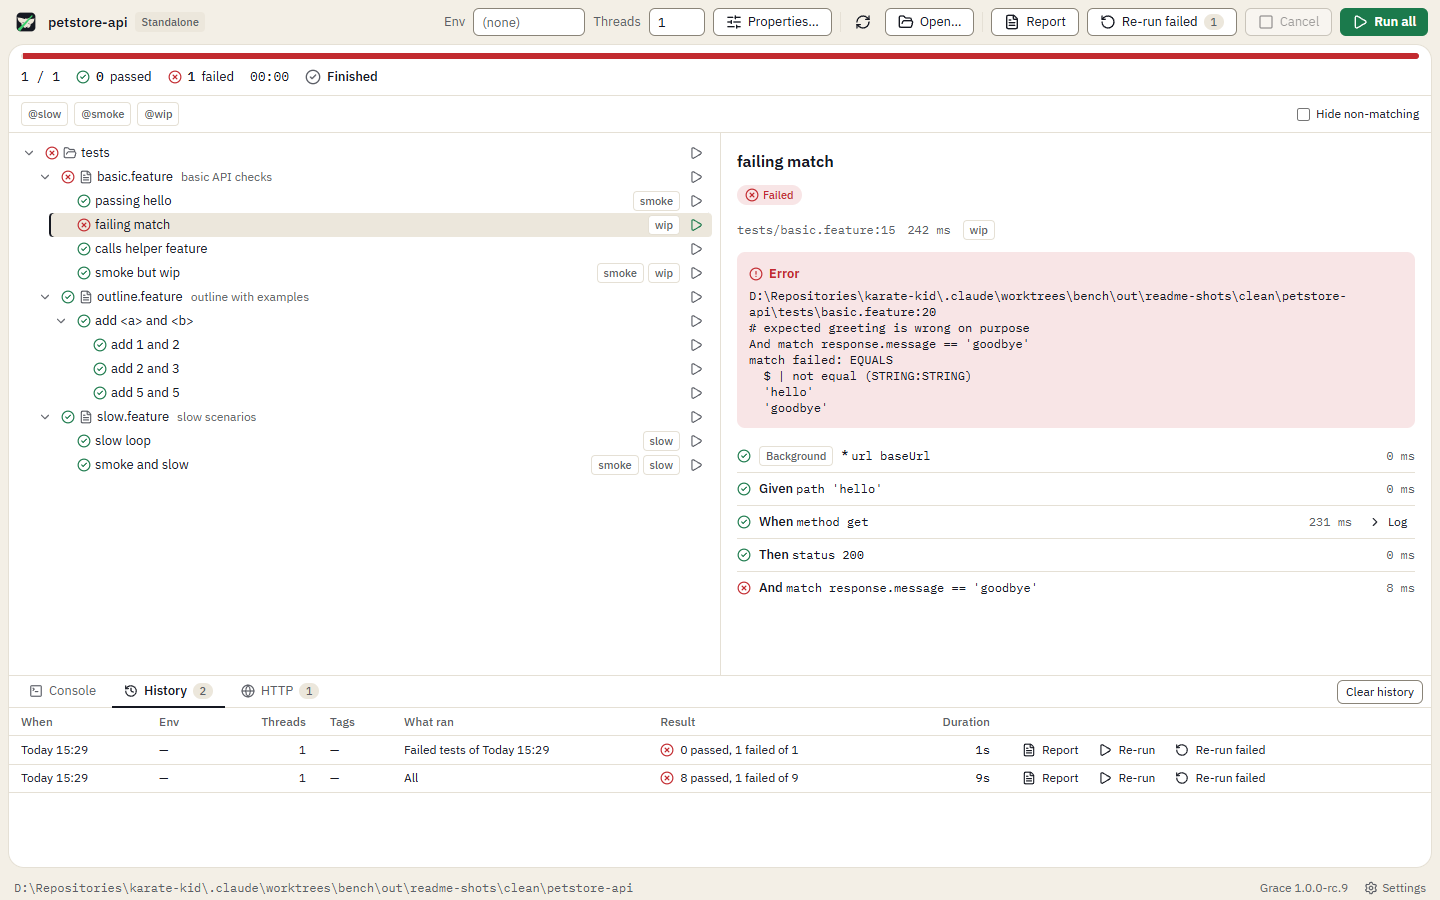
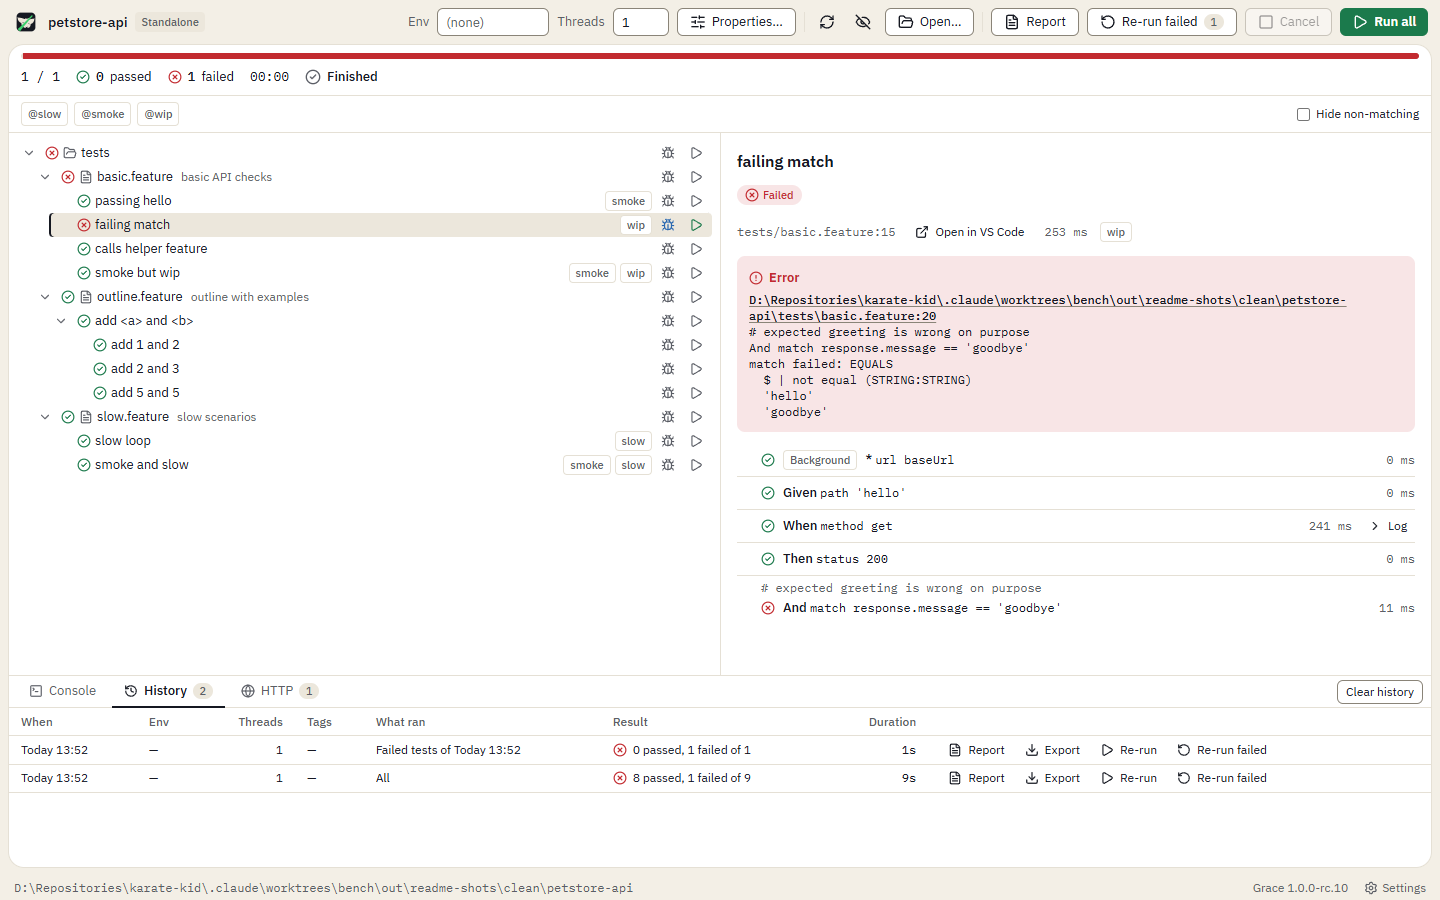
docs(readme): retake the screenshots for 1.0.0-rc.10
Part of #259

🤖 Generated with [Claude Code](https://claude.com/claude-code)

diff --git a/README.md b/README.md
@@ -148,7 +148,7 @@ Turn on **Watch** and each saved `.feature` file runs its tests that match your 
 
 <picture>
   <source media="(prefers-color-scheme: dark)" srcset="docs/images/history-dark.png">
-  <img src="docs/images/history-light.png" alt="The History tab: two runs with their threads, what ran, the result and the duration, each with Report, Re-run and Re-run failed buttons">
+  <img src="docs/images/history-light.png" alt="The History tab: two runs with their threads, what ran, the result and the duration, each with Report, Export, Re-run and Re-run failed buttons">
 </picture>
 
 ## Get started
